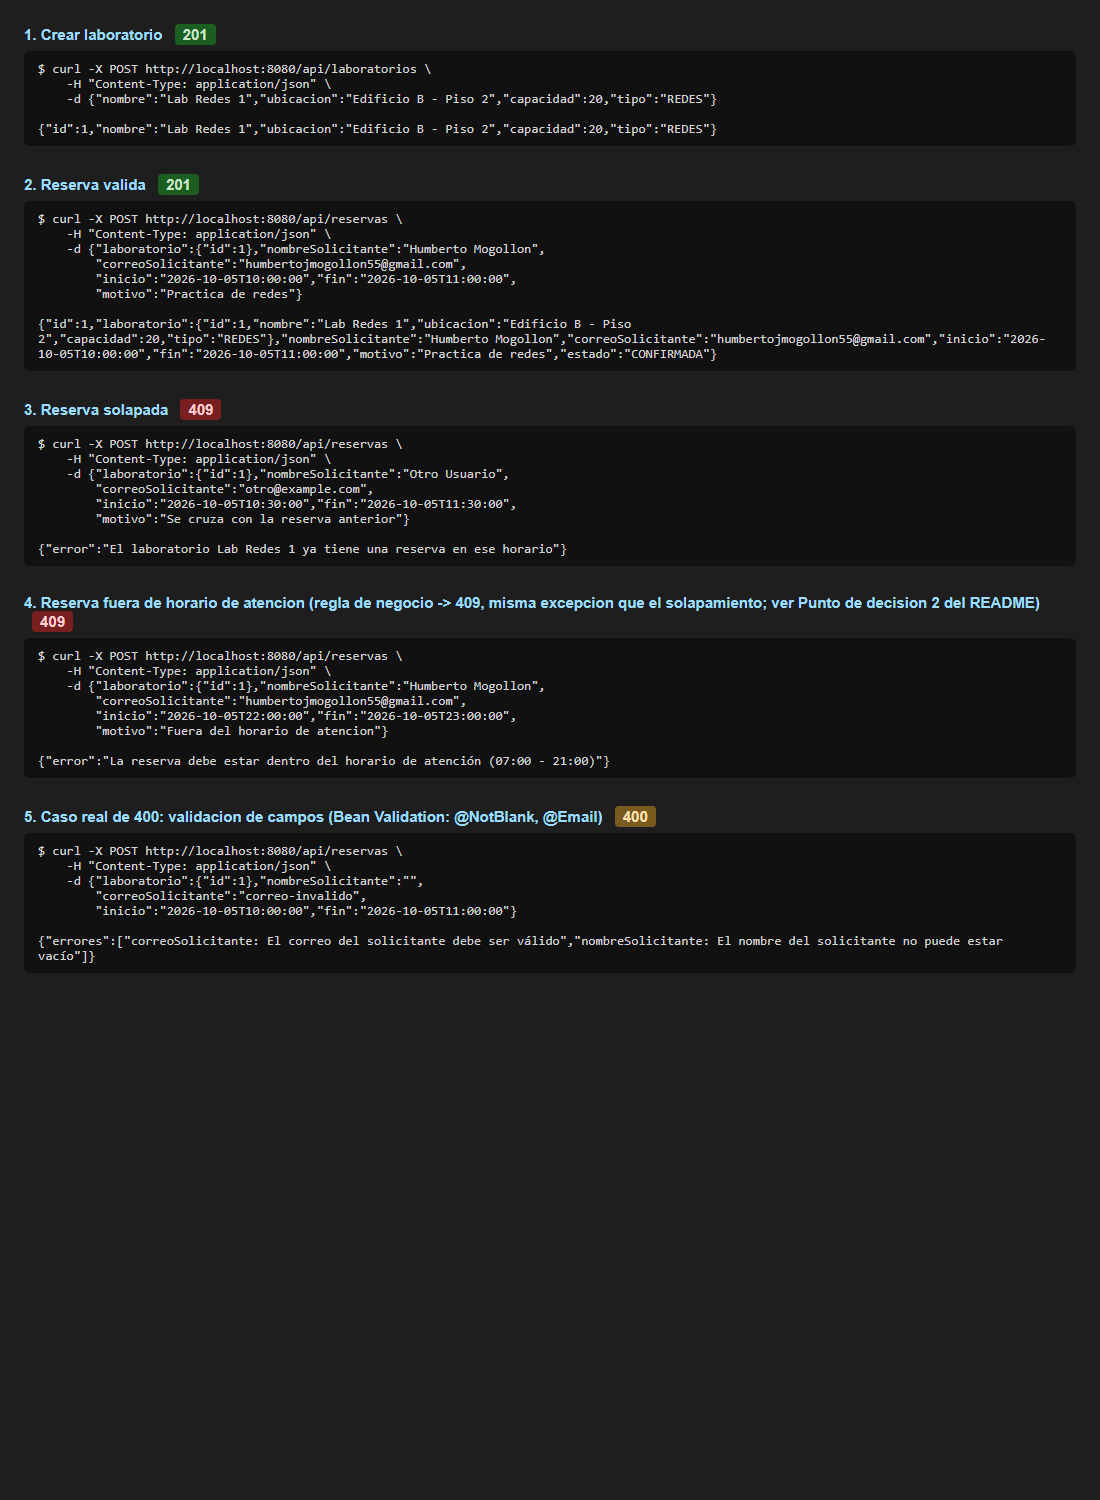
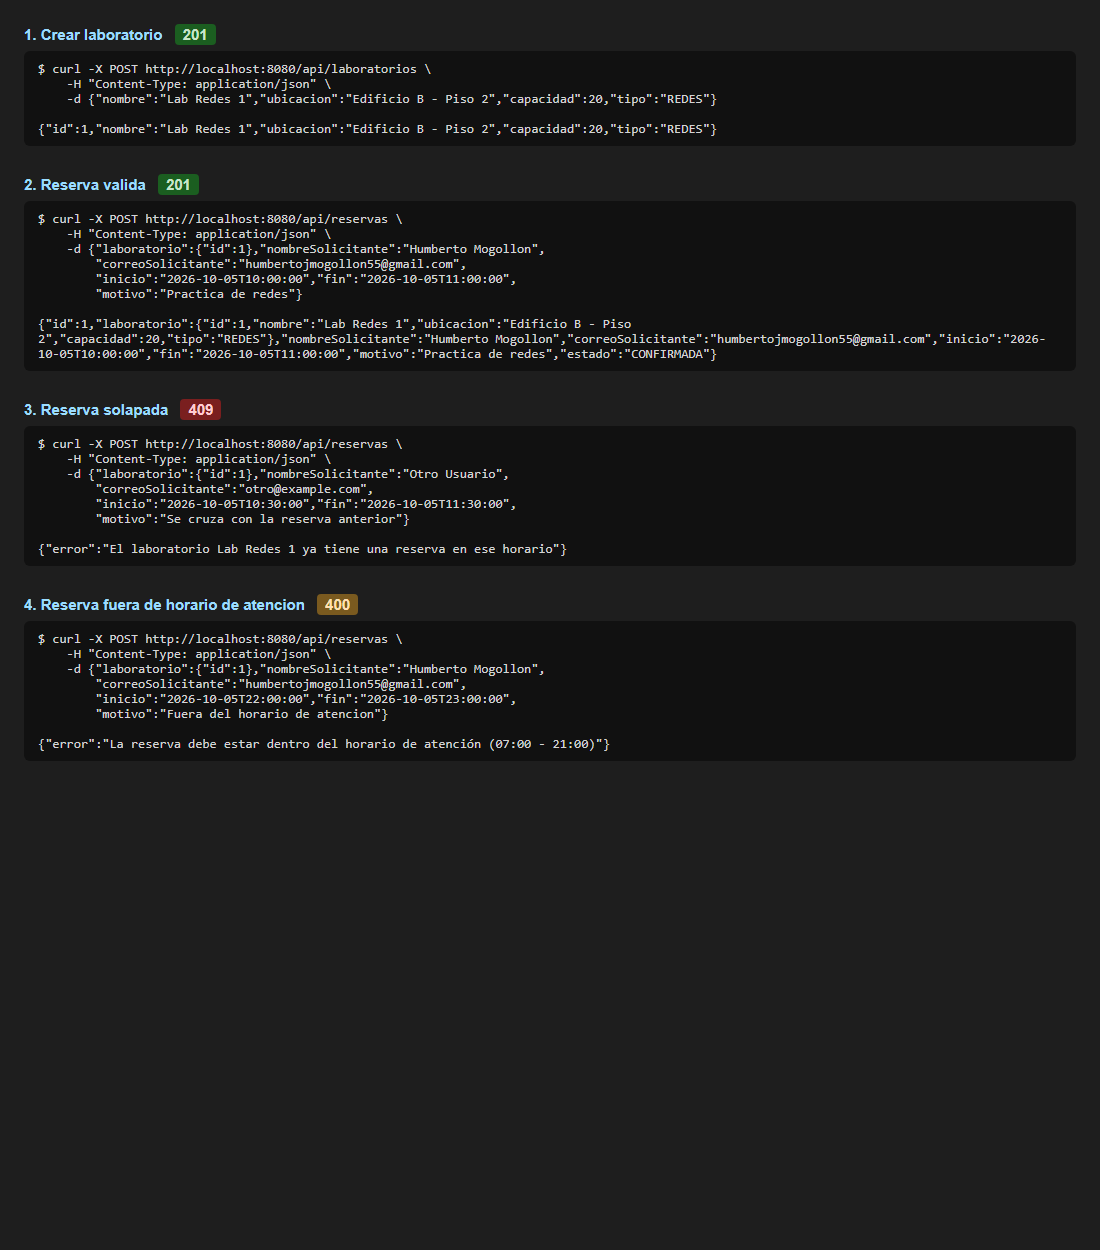
fix: separar HorarioInvalidoException (400) de ReservaConflictException (409) para cumplir la rubrica de Funcionalidad

diff --git a/src/main/java/com/universidad/reservaslabs/service/ReservaService.java b/src/main/java/com/universidad/reservaslabs/service/ReservaService.java
@@ -1,5 +1,6 @@
 package com.universidad.reservaslabs.service;
 
+import com.universidad.reservaslabs.exception.HorarioInvalidoException;
 import com.universidad.reservaslabs.exception.RecursoNoEncontradoException;
 import com.universidad.reservaslabs.exception.ReservaConflictException;
 import com.universidad.reservaslabs.model.EstadoReserva;
@@ -86,15 +87,15 @@ public class ReservaService {
 
     private void validarHorarioYDuracion(LocalDateTime inicio, LocalDateTime fin) {
         if (inicio == null || fin == null || !fin.isAfter(inicio)) {
-            throw new ReservaConflictException("El rango de fecha y hora de la reserva es inválido");
+            throw new HorarioInvalidoException("El rango de fecha y hora de la reserva es inválido");
         }
         Duration duracion = Duration.between(inicio, fin);
         if (duracion.compareTo(DURACION_MINIMA) < 0 || duracion.compareTo(DURACION_MAXIMA) > 0) {
-            throw new ReservaConflictException(
+            throw new HorarioInvalidoException(
                 "La duración de la reserva debe estar entre 30 minutos y 3 horas");
         }
         if (inicio.toLocalTime().isBefore(APERTURA) || fin.toLocalTime().isAfter(CIERRE)) {
-            throw new ReservaConflictException(
+            throw new HorarioInvalidoException(
                 "La reserva debe estar dentro del horario de atención (07:00 - 21:00)");
         }
     }

diff --git a/src/main/java/com/universidad/reservaslabs/web/ReservaWebExceptionHandler.java b/src/main/java/com/universidad/reservaslabs/web/ReservaWebExceptionHandler.java
@@ -1,5 +1,6 @@
 package com.universidad.reservaslabs.web;
 
+import com.universidad.reservaslabs.exception.HorarioInvalidoException;
 import com.universidad.reservaslabs.exception.RecursoNoEncontradoException;
 import com.universidad.reservaslabs.exception.ReservaConflictException;
 import org.springframework.web.bind.annotation.ControllerAdvice;
@@ -15,6 +16,12 @@ public class ReservaWebExceptionHandler {
 
     @ExceptionHandler(ReservaConflictException.class)
     public String conflicto(ReservaConflictException ex, RedirectAttributes redirect) {
+        redirect.addFlashAttribute("error", ex.getMessage());
+        return "redirect:/reservas/nueva";
+    }
+
+    @ExceptionHandler(HorarioInvalidoException.class)
+    public String horarioInvalido(HorarioInvalidoException ex, RedirectAttributes redirect) {
         redirect.addFlashAttribute("error", ex.getMessage());
         return "redirect:/reservas/nueva";
     }

diff --git a/src/main/java/com/universidad/reservaslabs/exception/GlobalRestExceptionHandler.java b/src/main/java/com/universidad/reservaslabs/exception/GlobalRestExceptionHandler.java
@@ -25,6 +25,11 @@ public class GlobalRestExceptionHandler {
         return ResponseEntity.status(409).body(Map.of("error", ex.getMessage()));
     }
 
+    @ExceptionHandler(HorarioInvalidoException.class)
+    public ResponseEntity<Map<String, String>> horarioInvalido(HorarioInvalidoException ex) {
+        return ResponseEntity.status(400).body(Map.of("error", ex.getMessage()));
+    }
+
     @ExceptionHandler(MethodArgumentNotValidException.class)
     public ResponseEntity<Map<String, Object>> validationError(MethodArgumentNotValidException ex) {
         List<String> errores = ex.getBindingResult().getFieldErrors().stream()

diff --git a/src/main/java/com/universidad/reservaslabs/exception/HorarioInvalidoException.java b/src/main/java/com/universidad/reservaslabs/exception/HorarioInvalidoException.java
@@ -1,0 +1,7 @@
+package com.universidad.reservaslabs.exception;
+
+public class HorarioInvalidoException extends RuntimeException {
+    public HorarioInvalidoException(String mensaje) {
+        super(mensaje);
+    }
+}

diff --git a/README.md b/README.md
@@ -84,7 +84,12 @@ se está validando, como el horario de atención o la duración mínima y
 máxima, no hay ninguna razón para involucrar al Repository ni a la
 base de datos, y hacerlo de todas formas sería un viaje a la base de
 datos innecesario además de una regla más difícil de probar de forma
-aislada.
+aislada. Refinamiento posterior: esta validación lanza su propia
+`HorarioInvalidoException` (400) en vez de reutilizar
+`ReservaConflictException` (409, reservada exclusivamente para el
+solapamiento del Punto de decisión 1) — son violaciones de distinta
+naturaleza y la rúbrica de Funcionalidad exige distinguirlas por código
+de estado HTTP.
 
 ### Punto de decisión 3 — Cómo comparten Service el Controller MVC y el REST
 
@@ -132,12 +137,12 @@ una sola vez en el paquete `exception/`.
 ### Parte 1 — API REST: casos de prueba con curl
 
 Laboratorio creado (`201`), reserva válida (`201`), reserva solapada
-(`409`) y reserva fuera del horario de atención. Este último caso
-también responde `409` porque, por diseño (ver Punto de decisión 2),
-`validarHorarioYDuracion` lanza la misma `ReservaConflictException`
-que usa el solapamiento — el único caso real de `400` en esta API es
-una violación de Bean Validation (`@NotBlank`, `@Email`, etc.), incluido
-como quinto caso para dejar esa distinción documentada.
+(`409`) y reserva fuera del horario de atención (`400`).
+`HorarioInvalidoException` separa este último caso de
+`ReservaConflictException` (ver Punto de decisión 2): el solapamiento
+sigue siendo un conflicto de estado (`409`), mientras que un horario
+o duración inválidos son datos de entrada rechazados por una regla de
+dominio (`400`), tal como exige la rúbrica de Funcionalidad.
 
 ![Casos de prueba de la API REST](screenshots/04-api-rest-casos-prueba.png)
 
